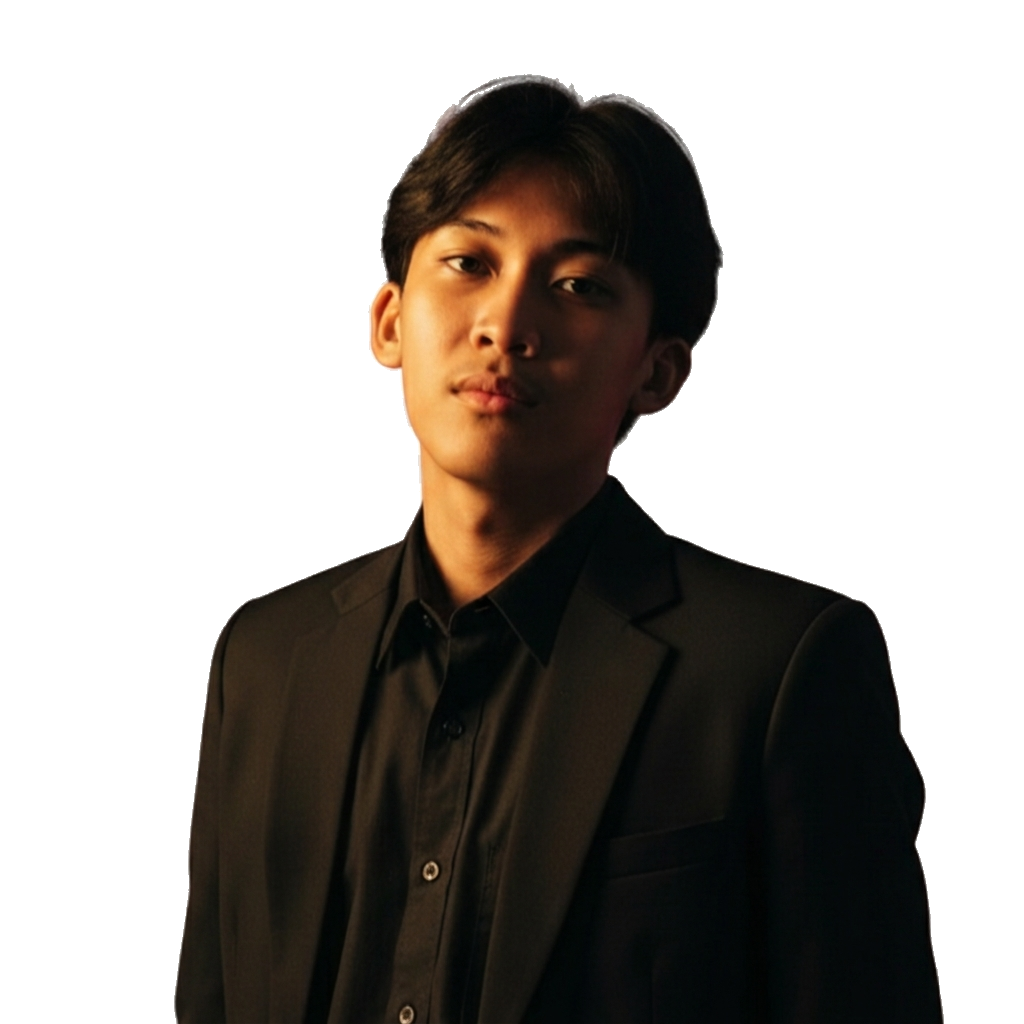
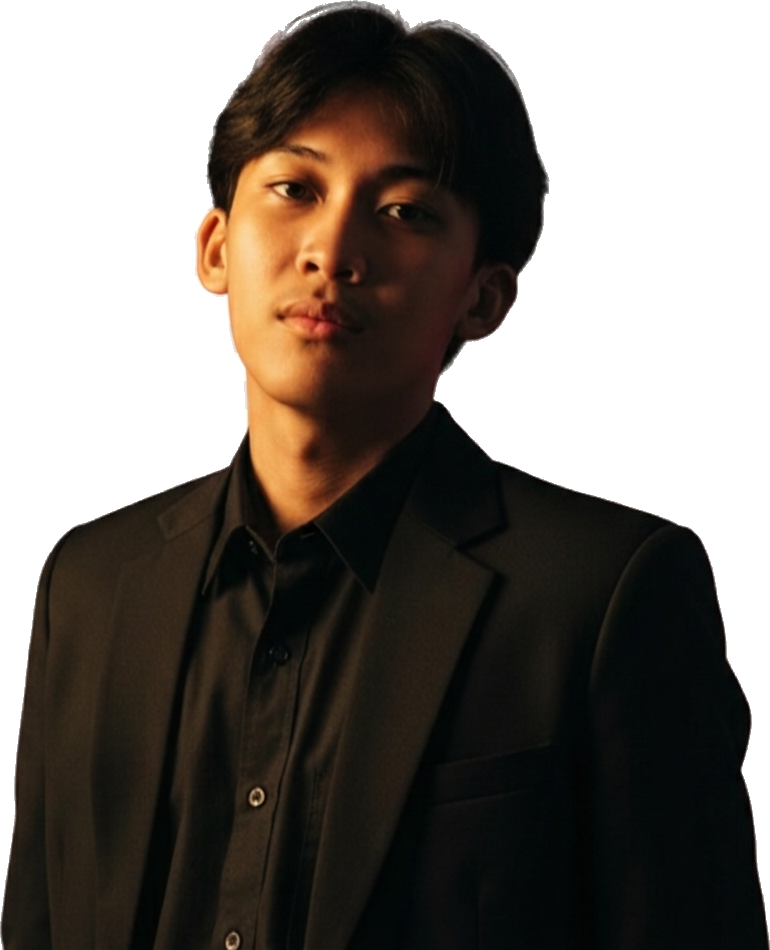
Ayusin spacing at framing ng picture sa mobile

diff --git a/src/components/Hero/Hero.css b/src/components/Hero/Hero.css
@@ -32,10 +32,10 @@
   position: relative;
   z-index: 1;
   display: grid;
-  grid-template-columns: 1.15fr 1.05fr 1fr;
+  grid-template-columns: 1.05fr 1.35fr 1fr;
   align-items: center;
   gap: 3.5rem;
-  max-width: 1300px;
+  max-width: 1360px;
   width: 100%;
 }
 
@@ -89,8 +89,8 @@
   line-height: 1.7;
   color: var(--text-secondary);
   margin-bottom: 2.25rem;
-  text-align: justify;
-  text-justify: inter-word;
+  text-align: left;
+  text-wrap: pretty;
 }
 
 .hero-editorial-actions {
@@ -136,7 +136,7 @@
 }
 
 /* ----------------------------------------------------
-   CENTER COLUMN: Prominent Portrait (Enlarged)
+   CENTER COLUMN: Big, Commanding Portrait
    ---------------------------------------------------- */
 .hero-col-center {
   display: flex;
@@ -149,7 +149,7 @@
 .portrait-atmosphere-stage {
   position: relative;
   width: 100%;
-  max-width: 420px;
+  max-width: 520px;
   display: flex;
   justify-content: center;
   align-items: flex-end;
@@ -158,44 +158,46 @@
 
 .portrait-backlight {
   position: absolute;
-  top: 10%;
+  top: 8%;
   left: 50%;
   transform: translateX(-50%);
-  width: 380px;
-  height: 380px;
+  width: 440px;
+  height: 440px;
   border-radius: 50%;
-  background: radial-gradient(circle, rgba(255, 255, 255, 0.15) 0%, transparent 70%);
+  background: radial-gradient(circle, rgba(255, 255, 255, 0.16) 0%, transparent 70%);
   pointer-events: none;
 }
 
 [data-theme="light"] .portrait-backlight {
-  background: radial-gradient(circle, rgba(15, 23, 42, 0.08) 0%, transparent 70%);
+  background: radial-gradient(circle, rgba(15, 23, 42, 0.09) 0%, transparent 70%);
 }
 
 .portrait-mask-wrapper {
   position: relative;
   width: 100%;
-  max-width: 420px;
-  height: 560px;
+  max-width: 520px;
+  height: 660px;
   overflow: hidden;
   display: flex;
   justify-content: center;
   align-items: flex-end;
-  -webkit-mask-image: linear-gradient(to bottom, rgba(0, 0, 0, 1) 75%, rgba(0, 0, 0, 0) 100%);
-  mask-image: linear-gradient(to bottom, rgba(0, 0, 0, 1) 75%, rgba(0, 0, 0, 0) 100%);
+  -webkit-mask-image: linear-gradient(to bottom, rgba(0, 0, 0, 1) 78%, rgba(0, 0, 0, 0) 100%);
+  mask-image: linear-gradient(to bottom, rgba(0, 0, 0, 1) 78%, rgba(0, 0, 0, 0) 100%);
 }
 
 .portrait-img {
   width: 100%;
   height: 100%;
-  object-fit: contain;
-  object-position: bottom center;
+  object-fit: cover;
+  object-position: 50% 10%;
+  transform: scale(1.25);
+  transform-origin: 50% 25%;
   transition: transform 0.35s ease;
-  filter: contrast(1.05) brightness(1.02);
+  filter: contrast(1.06) brightness(1.02);
 }
 
 .portrait-atmosphere-stage:hover .portrait-img {
-  transform: scale(1.02);
+  transform: scale(1.28);
 }
 
 .portrait-ground-fade {
@@ -251,7 +253,7 @@
   display: flex;
   align-items: center;
   justify-content: center;
-  height: 48px;
+  height: 50px;
   border-radius: 0.75rem;
   background: var(--bg-secondary);
   border: 1px solid var(--border);
@@ -336,13 +338,13 @@
    ---------------------------------------------------- */
 @media (max-width: 1200px) {
   .hero-container-modern {
-    grid-template-columns: 1fr 0.95fr 0.95fr;
+    grid-template-columns: 1fr 1.15fr 0.95fr;
     gap: 2.25rem;
   }
 
   .portrait-mask-wrapper {
-    height: 480px;
-    max-width: 360px;
+    height: 540px;
+    max-width: 420px;
   }
 }
 
@@ -371,22 +373,22 @@
   }
 
   .portrait-mask-wrapper {
-    height: 440px;
-    max-width: 340px;
+    height: 480px;
+    max-width: 380px;
   }
 }
 
 @media (max-width: 768px) {
   .hero-section.modern-hero {
     min-height: auto;
-    padding: 4.5rem 0 3.5rem 0;
+    padding: 4.5rem 0 5.5rem 0; /* generous bottom padding for bottom nav */
   }
 
   .hero-container-modern {
     display: flex;
     flex-direction: column;
-    align-items: center;
-    gap: 2.25rem;
+    align-items: flex-start;
+    gap: 1.75rem;
     text-align: left;
     padding: 0 1.25rem;
   }
@@ -398,23 +400,23 @@
   }
 
   .hero-editorial-title {
-    font-size: clamp(1.95rem, 7.5vw, 2.5rem);
-    line-height: 1.15;
-    margin-bottom: 0.65rem;
+    font-size: clamp(2rem, 7.5vw, 2.45rem);
+    line-height: 1.12;
+    margin-bottom: 0.55rem;
   }
 
   .hero-role-title {
     font-size: 0.95rem;
-    margin-bottom: 0.85rem;
+    margin-bottom: 0.75rem;
     line-height: 1.4;
   }
 
   .hero-editorial-description {
-    font-size: 0.9rem;
-    line-height: 1.65;
-    margin-bottom: 1.5rem;
-    text-align: justify;
-    text-justify: inter-word;
+    font-size: 0.925rem;
+    line-height: 1.6;
+    margin-bottom: 1.35rem;
+    text-align: left;
+    text-wrap: pretty;
   }
 
   .hero-editorial-actions {
@@ -436,18 +438,24 @@
     padding: 0.4rem 0.2rem;
   }
 
-  /* Mobile Portrait - Big and Prominent */
+  /* Mobile Portrait - Big, Bold, Well-Proportioned */
   .hero-col-center {
     width: 100%;
+    margin: 0.5rem 0;
   }
 
   .portrait-atmosphere-stage {
-    max-width: 320px;
+    max-width: 300px;
   }
 
   .portrait-mask-wrapper {
-    max-width: 320px;
-    height: 390px;
+    max-width: 300px;
+    height: 340px;
+  }
+
+  .portrait-img {
+    object-position: 50% 8%;
+    transform: scale(1.22);
   }
 
   /* Mobile Unboxed Blocks */
@@ -456,7 +464,7 @@
     flex-direction: column;
     width: 100%;
     max-width: 100%;
-    gap: 1.85rem;
+    gap: 1.75rem;
   }
 
   .hero-stack-block,
@@ -487,16 +495,16 @@
 
 @media (max-width: 480px) {
   .hero-editorial-title {
-    font-size: 2.05rem;
+    font-size: 2.1rem;
   }
 
   .portrait-atmosphere-stage {
-    max-width: 290px;
+    max-width: 280px;
   }
 
   .portrait-mask-wrapper {
-    max-width: 290px;
-    height: 360px;
+    max-width: 280px;
+    height: 320px;
   }
 
   .tech-icons-cluster {
@@ -505,12 +513,12 @@
   }
 
   .tech-icon-box {
-    height: 44px;
+    height: 46px;
   }
 
   .tech-tile-icon {
-    width: 22px;
-    height: 22px;
+    width: 23px;
+    height: 23px;
   }
 
   .career-item-row {
